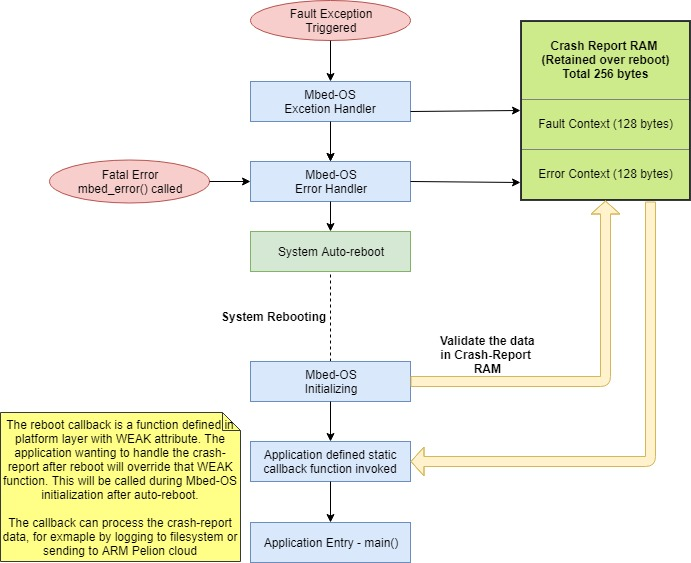
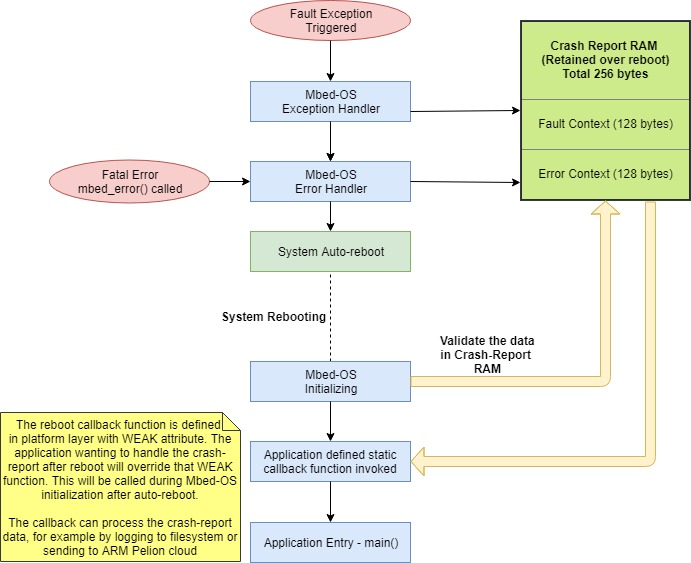
Fix code style issues and fix typos in diagrams

Changed region(s): [[0.0, 0.7247, 0.3343, 0.7851], [0.3951, 0.151, 0.547, 0.2114], [0.0912, 0.9361, 0.1216, 0.9663]]

diff --git a/docs/design-documents/platform/crash-reporting/crash_reporting.md b/docs/design-documents/platform/crash-reporting/crash_reporting.md
@@ -178,7 +178,8 @@ In order to implement the callback the user can override the default callback fu
 ```C
 mbed_error_ctx my_error_ctx;
 //Callback during reboot
-void mbed_error_reboot_callback(mbed_error_ctx *error_context) {
+void mbed_error_reboot_callback(mbed_error_ctx *error_context) 
+{
     printf("Error callback received");
     //Copy the error context in a local struct for processing it later
     memcpy(&my_error_ctx, error_context, sizeof(mbed_error_ctx));
@@ -195,17 +196,18 @@ mbed_error_ctx error_ctx;
 int reboot_error_detected = 0;
 
 //Callback during reboot
-void mbed_error_reboot_callback(mbed_error_ctx *error_context) {
+void mbed_error_reboot_callback(mbed_error_ctx *error_context) 
+{
     printf("error callback received");
     reboot_error_detected = 1;
 }
 
 // main() runs in its own thread in the OS
-int main() {
-  
-    if(reboot_error_detected == 1) {
-        if(MBED_SUCCESS == mbed_get_reboot_error_info(&error_ctx)) {
-        printf("\nSuccessfully read error context\n");
+int main() 
+{
+    if (reboot_error_detected == 1) {
+        if (MBED_SUCCESS == mbed_get_reboot_error_info(&error_ctx)) {
+            printf("\nSuccessfully read error context\n");
     }
     //main continues...
 }
@@ -222,19 +224,20 @@ mbed_fault_context_t fault_ctx;
 int reboot_error_detected = 0;
 
 //Callback during reboot
-void mbed_error_reboot_callback(mbed_error_ctx *error_context) {
+void mbed_error_reboot_callback(mbed_error_ctx * error_context) 
+{
     printf("error callback received");
     reboot_error_detected = 1;
 }
 
 // main() runs in its own thread in the OS
-int main() {
-  
-    if(reboot_error_detected == 1) {
-        if(MBED_SUCCESS == mbed_get_reboot_error_info(&error_ctx)) {
+int main() 
+{
+    if (reboot_error_detected == 1) {
+        if (MBED_SUCCESS == mbed_get_reboot_error_info(&error_ctx)) {
             printf("\nRead in reboot info\n");
-            if(error_ctx.error_status == MBED_ERROR_HARDFAULT_EXCEPTION) {
-               if(MBED_SUCCESS == mbed_get_reboot_fault_context(&fault_ctx)) {
+            if (error_ctx.error_status == MBED_ERROR_HARDFAULT_EXCEPTION) {
+               if (MBED_SUCCESS == mbed_get_reboot_fault_context(&fault_ctx)) {
                    printf("\nRead in fault context info\n");
                }
             }
